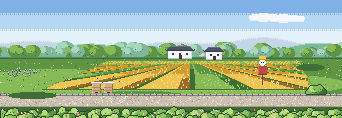
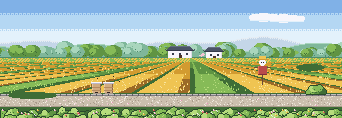
铺满春日花田并平滑衔接果园牧场

Changed region(s): [[0.0, 0.4831, 1.0, 0.8136]]

diff --git a/art/src/concept/spring_fields.py b/art/src/concept/spring_fields.py
@@ -85,17 +85,18 @@ def clouds(s, zone):
 
 def lawn(s, zone):
     """Soft rolling lawn (no mowing stripes: this is country, not a park)."""
-    s.rect(0, HZ, W, PATH[0] - HZ, G[2])
-    for cx, cy, rx, ry in ((60, 86, 90, 18), (250, 88, 110, 16)):
+    width = s.w
+    s.rect(0, HZ, width, PATH[0] - HZ, G[2])
+    for cx, cy, rx, ry in ((60 * width / W, 86, 90 * width / W, 18), (250 * width / W, 88, 110 * width / W, 16)):
         s.ellipse(cx + 4, cy + 3, rx, ry, G[2])
         s.ellipse(cx - 6, cy - 4, rx - 8, ry - 5, G[3])
-    s.hline(0, W - 1, HZ, G[1])
+    s.hline(0, width - 1, HZ, G[1])
     rnd = random.Random(zone["id"] + "lawn")
-    for _ in range(420):
-        x, y = rnd.randrange(W), rnd.randint(HZ + 1, PATH[0] - 1)
+    for _ in range(round(420 * width / W)):
+        x, y = rnd.randrange(width), rnd.randint(HZ + 1, PATH[0] - 1)
         s.set(x, y, G[rnd.choice((1, 2, 4))])
-    for _ in range(70):                                    # daisies, dandelions, violets
-        x, y = rnd.randrange(W), rnd.randint(HZ + 3, PATH[0] - 2)
+    for _ in range(round(70 * width / W)):                   # daisies, dandelions, violets
+        x, y = rnd.randrange(width), rnd.randint(HZ + 3, PATH[0] - 2)
         s.set(x, y, rnd.choice((P.linen[3], P.linen[3], P.mustard[4], P.lilac[3])))
 
 
@@ -616,6 +617,19 @@ def background(zone):
     PK.treeline(s, SEASON)
     lawn(s, zone)
     zid = zone["id"]
+    if zone.get("long") == "ranch":
+        # Render shared terrain across 684px, then crop. No restarted tree line
+        # or duplicated lawn mound at the orchard/pasture join.
+        terrain = Sprite(W * 2, H)
+        for i, key in enumerate(("orchard", "pasture")):
+            half = Sprite(W, H)
+            PK.sky(half)
+            clouds(half, {"id": key})
+            hills(half, {"id": key})
+            terrain.blit(half, i * W, 0)
+        PK.treeline(terrain, SEASON, width=W * 2)
+        lawn(terrain, {"id": "ranch"})
+        s = terrain.crop(0 if zid == "orchard" else W, 0, W, H)
     patches = {"brook": [(60, 80, 26, 5, P.lilac), (120, 70, 18, 3, P.mustard), (270, 78, 30, 5, P.blossom),
                          (300, 88, 20, 3, P.mustard), (40, 66, 22, 3, P.blossom)],
                "rape": [(20, 72, 18, 4, P.lilac)],
@@ -630,11 +644,11 @@ def background(zone):
     if zid == "rape":
         farmhouse(s, 168, HZ + 1, 24)
         farmhouse(s, 206, HZ + 2, 16)
-        field(s, 190, HZ + 2, PATH[0] - 5, (110, 300), (44, 312), rape_pick, 71)
+        field(s, 190, HZ - 1, PATH[0] - 1, (-2, W + 2), (-2, W + 2), rape_pick, 71)
         scarecrow(s, 262, 84)
     if zid == "tulip":
         windmill(s, 236, HZ + 4)
-        field(s, 170, HZ + 3, PATH[0] - 5, (96, 300), (58, 322), tulip_pick, 73)
+        field(s, 170, HZ - 1, PATH[0] - 1, (-2, W + 2), (-2, W + 2), tulip_pick, 73)
     if zid == "home":
         homestead(s)
     if zid == "farm":

diff --git a/art/src/concept/park.py b/art/src/concept/park.py
@@ -79,12 +79,12 @@ def skyline(s):
         x += w + rnd.randint(-2, 3)
 
 
-def treeline(s, season):
+def treeline(s, season, width=W):
     rnd = random.Random(7)
     R = FAR[season]
-    m = Sprite(W, H)
-    for i in range(70):                                                # overlapping crowns, back row first
-        cx = rnd.uniform(-6, W + 6)
+    m = Sprite(width, H)
+    for i in range(round(70 * width / W)):                              # overlapping crowns, back row first
+        cx = rnd.uniform(-6, width + 6)
         r = rnd.uniform(5, 9)
         cy = HORIZON - 2 - r * rnd.uniform(0.4, 0.9)
         A = R[rnd.randrange(len(R))]
@@ -99,7 +99,7 @@ def treeline(s, season):
         for _ in range(4):
             m.set(int(cx + rnd.uniform(-r, r) * 0.7), int(cy + rnd.uniform(0, r * 0.6)), A[1])
     s.blit(m, 0, 0)
-    s.hline(0, W - 1, HORIZON - 1, R[0][1])
+    s.hline(0, width - 1, HORIZON - 1, R[0][1])
 
 
 def lawn(s, season):

diff --git a/docs/SPRING_FARM.md b/docs/SPRING_FARM.md
@@ -32,6 +32,9 @@ PYTHONPATH=tools python3 -m pixelkit build art/src/concept/spring_fields.py
     step); `chicken(f, rooster)` has 2.
   - Lane edge and live layers: `shrub_border`, `sun_shaft`, `bird`; `blend` is for
     previews only.
+- Shared ranch terrain: `background()` constructs a 684px terrain layer and crops each
+  half. `lawn()` uses the target sprite width; `park.treeline` accepts optional `width`
+  with the original default. Field rows keep their perspective but reach both edges.
 - Reused: `park.py` (sky, tree line, lane), `front_yard.py` (trees, bushes, butterflies),
   `friend_houses.draw_plan` (interior shell only), `house.back_wall/floor_band/on_floor/place`.
 
@@ -67,10 +70,13 @@ PYTHONPATH=tools python3 -m pixelkit build art/src/concept/spring_fields.py
 
 ## Owner decisions (rules; do not undo)
 1. Keep the existing maps' look ("贴近目前的地图"), refined and lively ("精致、生动、华丽自然").
-2. Screens 1–3 (brook, rapeseed, tulips/windmill) were approved as they are.
+2. Brook screen approved as-is. Rapeseed and tulip/windmill fields were expanded on
+   2026-10-31: fill the whole ground up to the walking lane, no narrow trapezoid of
+   flowers surrounded by lawn. Keep the road, foreground shrub strip and existing props.
 3. Screen 4 was 紫藤花廊; it became the vegetable garden. The beds and the orchard were
    too small and were enlarged.
-4. The orchard and the pasture form one long map.
+4. The orchard and the pasture form one long map. Their terrain and far tree line
+   must be rendered continuously across 684px, never reset at x=342 (2026-10-31).
 5. **Chinese rural style** for the farmhouse, its inside and the barn.
    - Grey tiles, curled ridge ends, lattice windows, couplets, a 福 sign, strings of
      chillies and corn, a granary, a grain bin, bamboo fences.
@@ -98,8 +104,8 @@ PYTHONPATH=tools python3 -m pixelkit build art/src/concept/spring_fields.py
 - [ ] Owner's answers to the open questions in `docs/SEASON_MAPS.md`: farm open all year
       or spring only, the deadline, crop growth time, fruit trees after spring, which
       animals and what Buddy does with them.
-- [ ] Ranch seam at x=342: the far tree line breaks slightly. Make `park.treeline` take an
-      offset or width before going live.
+- [x] Ranch seam at x=342: `park.treeline(..., width=684)` and a shared wide lawn now
+      span both halves before cropping. Default width=342 preserves other maps.
 - [ ] Upstairs bedrooms have no window (they were hidden behind the beds). Ask the owner
       whether to add a small high window.
 - [ ] Only once the owner says go, gameplay. Planned steps, one commit each:

diff --git a/docs/AGENT_LOG.md b/docs/AGENT_LOG.md
@@ -6,6 +6,14 @@ owner decisions made, what was not tested. Keep older entries; trim beyond ~40 e
 
 ---
 
+## 2026-10-31 · Codex
+- Spring farm art review: rapeseed and tulip beds now fill the ground up to the road;
+  orchard/pasture share a 684px tree line and rolling lawn (no reset at the join).
+- Source + generated PNGs updated; decisions and implementation in `docs/SPRING_FARM.md`.
+  Other scenes/props preserved; art only, gameplay still waiting on owner approval.
+- Checked: visual combined preview, original park tree-line parity (all seasons), unchanged
+  brook/home/garden, pixelkit rebuild, make_demo + npm run web, local browser boot (no errors).
+
 ## 2026-10-31 · Claude
 - Hand-off for Codex: `docs/SPRING_FARM.md` (state, build/review, files, coordinates, 11
   owner decisions + rejected ideas, next steps as one-commit pieces, gotchas). AGENTS.md:
